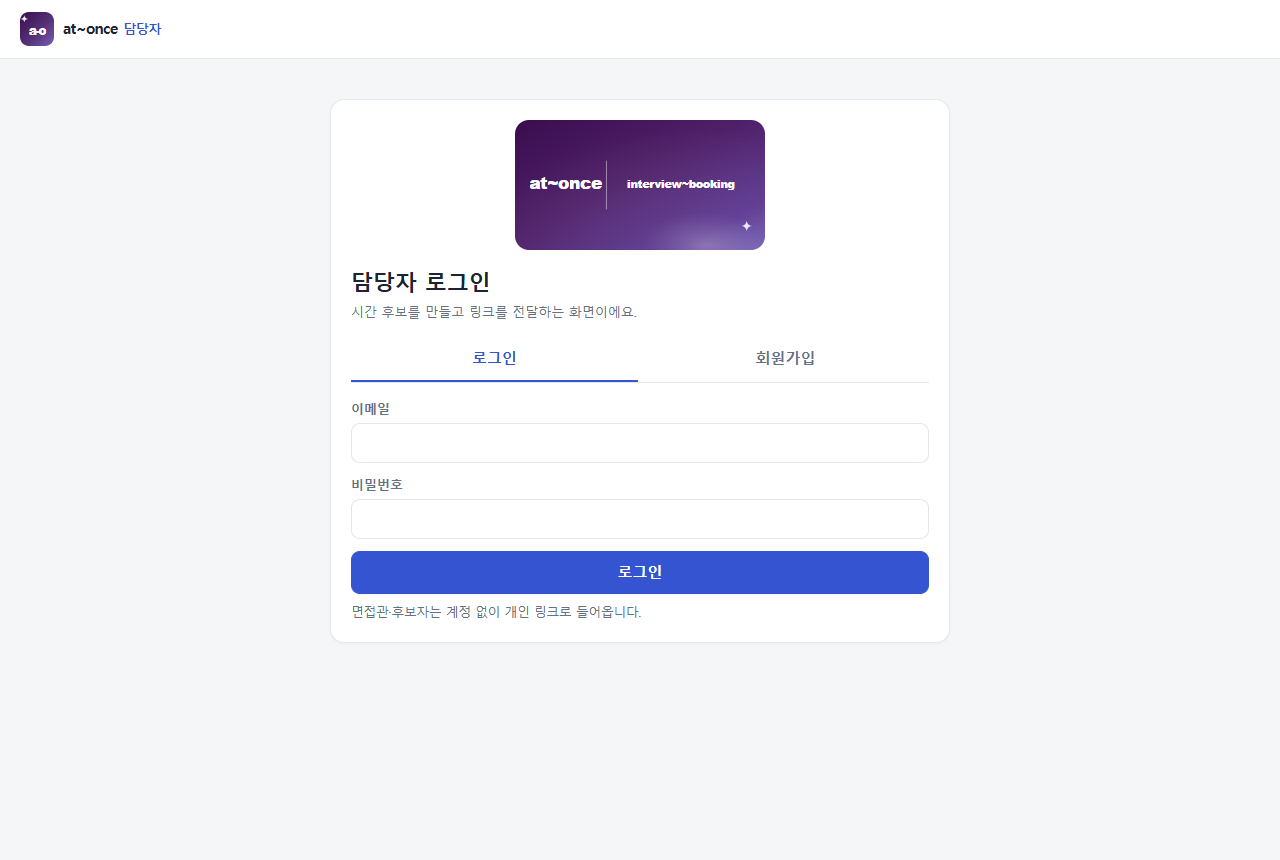
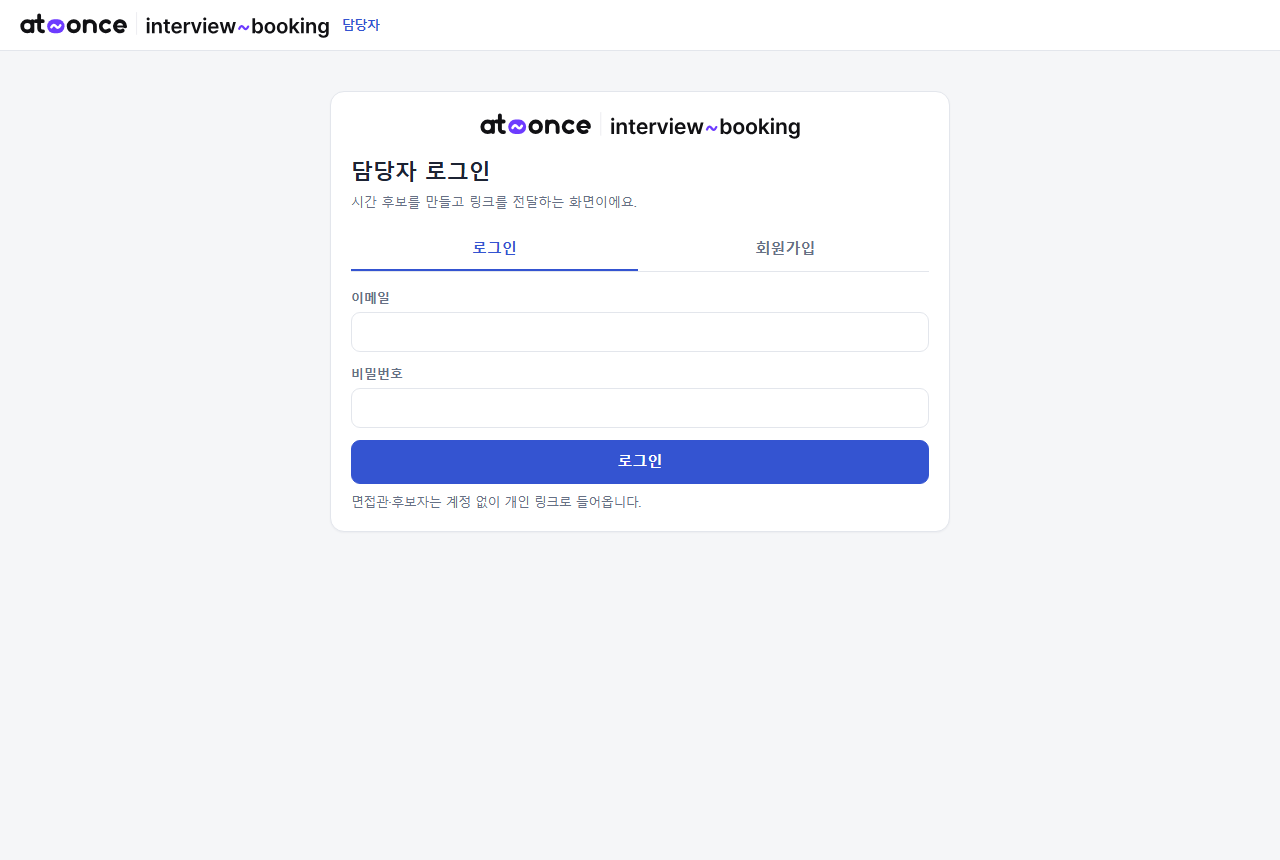
interview-booking: 시연 캡처 10장으로 교체 — 새 로고·계정 삭제·면접 완료 기록 반영, 이메일 가림, 면접 완료 흐름 배포 화면 확인

diff --git a/interview-booking/docs/progress.md b/interview-booking/docs/progress.md
@@ -52,6 +52,7 @@
 | 11-04 | 채용 완료 | 포지션 **[채용 완료]·[다시 진행]**, 완료된 포지션을 모은 **완료된 면접 기록** 화면(`#records`), 메인 목록·확정 일정은 진행 중만. 완료된 포지션은 서버에서 체크·예약 거부(R10) | 포지션 단위·직접 완료 처리 (사용자), R10 서버 차단 (AI 제안), SQL Editor 실행 (사용자) | 실제 Supabase **28/28 통과**(R10 2개 포함), 화면 확인은 캡처 단계에서 | (이번 커밋) |
 | 11-04 | 로고 잘림 | 로고 SVG의 viewBox(y 52~208)가 "booking" g 아래 꼬리(~232)를 잘라 앱 상단·로그인 화면에서 잘려 보이던 것을 viewBox `-16 48 2210 186`으로 넓히고 표시 높이 22→26px(좁은 화면 14→17px) | 캡처 준비 중 발견 (AI) | resvg로 그림 범위 측정(x -14~2192, y 50~232), 로컬 1280px에서 g 전체 보임, 375px 틀에서 가로 넘침 없음 | (이번 커밋) |
 | 11-04 | 문구 | [채용 완료] → **[면접 완료]**, 링크 안내·서버 오류 문구도 "면접이 끝난 포지션이에요"로 통일 | 면접 완료가 더 맞는 표현 (사용자), SQL Editor 재실행 (사용자) | 실제 Supabase **28/28 통과**, R10 새 문구 확인 | (이번 커밋) |
+| 11-04 | 시연 캡처 | 예전 캡처 8장을 지우고 **10장**으로 다시 찍음(새 로고, 5 다시 승인·삭제, 6 [면접 완료], 9 완료된 면접 기록, 10 면접 종료 후보자 링크). 가상 이름 시연 데이터, 이메일 가림, 헤드리스 크롬 1280px | 새 화면으로 다시 작업 (사용자), 캡처용 로그인 (사용자) | 캡처마다 화면에 이메일이 남았는지 검사, 배포 화면에서 [면접 완료]→기록→[다시 진행] 흐름 7단계 통과, 계정 C 원래 상태(반려) 복원, 시연 데이터 삭제 | (이번 커밋) |
 
 ## 막혔던 곳과 푼 방법
 - **로컬 시험에서 한글이 깨짐**: Windows의 psql은 명령줄 인자(`-c`)를 CP949로 보내요 → `PGCLIENTENCODING=UTF8` + SQL을 표준 입력으로 넘겨서 해결.

diff --git a/interview-booking/README.md b/interview-booking/README.md
@@ -20,10 +20,12 @@
 | 2 | 담당자 회원가입 | ![회원가입](docs/screenshots/02-signup.png) |
 | 3 | 가입 직후: 관리자 승인 대기 (승인 전에는 일정을 볼 수 없음) | ![승인 대기](docs/screenshots/03-pending.png) |
 | 4 | 관리자의 회원 승인 목록 (대기 회원에 승인·반려, 승인 회원에 승인 취소) | ![회원 승인](docs/screenshots/04-approve.png) |
-| 5 | 반려·승인 취소된 회원을 다시 승인 | ![다시 승인](docs/screenshots/05-reapprove.png) |
-| 6 | 포지션 등록 뒤 면접일정 잡기: 면접관·후보자 링크, 시간 후보(15분 단위), 시간별 가능 면접관 수와 확정 예약 | ![포지션 일정](docs/screenshots/06-position-schedule.png) |
+| 5 | 반려·승인 취소된 회원: **다시 승인** 또는 **삭제**(퇴사자 — 로그인 계정만 지우고 포지션·예약 기록은 남김) | ![다시 승인·삭제](docs/screenshots/05-reapprove-delete.png) |
+| 6 | 포지션 등록 뒤 면접일정 잡기: 면접관·후보자 링크, 시간 후보(15분 단위), 시간별 가능 면접관 수와 확정 예약, 끝나면 **[면접 완료]** | ![포지션 일정](docs/screenshots/06-position-schedule.png) |
 | 7 | 면접관 링크: 가능한 시간 체크, 예약된 시간은 해제 불가 | ![면접관 링크](docs/screenshots/07-interviewer-link.png) |
 | 8 | 후보자 링크: 면접관이 모인 시간만 보이고, 예약된 시간은 마감 (면접관 1명뿐인 11:00은 안 보임) | ![후보자 링크](docs/screenshots/08-candidate-link.png) |
+| 9 | **완료된 면접 기록**: 면접 완료한 포지션은 진행 중 목록에서 빠져 여기에 모이고, [다시 진행]으로 되돌릴 수 있음 | ![완료된 면접 기록](docs/screenshots/09-records.png) |
+| 10 | 면접이 끝난 포지션의 후보자 링크: 기존 예약은 보이지만 새 예약은 서버에서 막음(R10) | ![면접 종료 후보자 링크](docs/screenshots/10-candidate-completed.png) |
 
 ## 사용한 AI 도구
 

diff --git a/interview-booking/PRD.md b/interview-booking/PRD.md
@@ -118,7 +118,7 @@ PRD에는 넣지 않는다. 계획 단계에서 AI가 후보를 비교해 고르
 | R8 비밀값 | 통과 | `.env` 미추적, 추적 파일 28개에서 비밀 키 패턴 없음 | 2026-11-03 |
 | R9 시간 겹침·15분 단위 | 통과 | 겹침 `23P01 ... slots_no_overlap`, 20분 `23514 ... slots_duration_min_check` | 2026-11-03 |
 | R10 면접 완료 포지션 | 통과 | 완료 뒤 후보자 예약·면접관 체크 모두 `면접이 끝난 포지션이에요. 담당자에게 문의해 주세요.`, 후보자 화면 `completed=true` · 다시 진행 뒤 예약 성공 (`docs/evidence-live-rules.txt`, 28/28) | 2026-11-04 |
-| 완료된 면접 기록 화면 | 미완료 | 배포 화면에서 [면접 완료] → 기록 화면 이동 → [다시 진행] 직접 확인 예정 | - |
+| 완료된 면접 기록 화면 | 통과 | 배포 화면에서 시연 포지션 [면접 완료] → 주소 `#records`·기록 화면 표시, 기록에 있고 진행 중 목록에서 빠짐 → [다시 진행] → 기록에서 빠지고 진행 중 목록에 돌아옴 (헤드리스 크롬 클릭, README 캡처 9) | 2026-11-04 |
 
 실제 Supabase 요청으로 자동 시험한 기록은 `docs/evidence-live-rules.txt`, 배포 주소에서 3개 화면을 클릭한 기록은 `docs/evidence-deploy-ui.txt`에 있어요.
 
